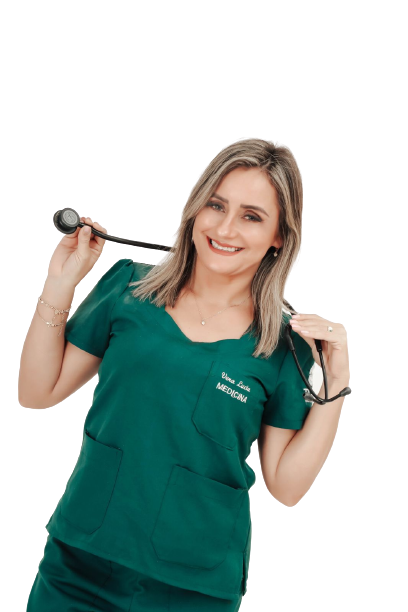
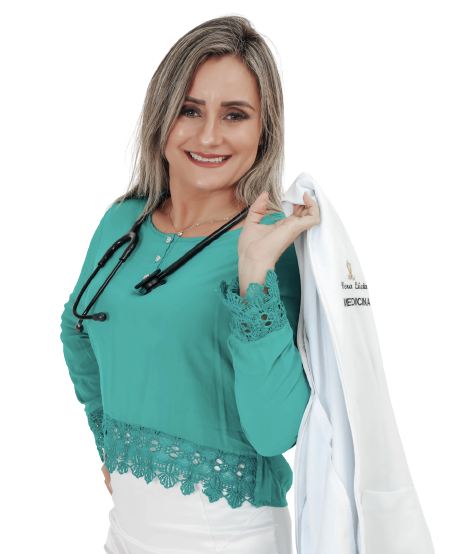
Changes

diff --git a/index.html b/index.html
@@ -37,8 +37,7 @@
           <div class="" id="">
             <div class="User_option">
               <form class="form-inline my-2  mb-3 mb-lg-0">
-                <input type="search" placeholder="Search">
-                <button class="btn   my-sm-0 nav_search-btn" type="submit"></button>
+                
               </form>
             </div>
 
@@ -88,20 +87,20 @@
                       </h5>
                     </div>
                     <h1>
-                      Vera Nutrição  <br>
+                      Dra. Vera Bezerra <br>
                       <span>
-                        chnage
+                        Change your Life!
                       </span>
                     </h1>
                     <p>
-                      Lorem ipsum dolor sit amet, consectetur adipiscing elit, sed do eiusmod tempor incididunt
+                      Pronto para uma transformação na saúde? A Dra. Vera Bezerra, uma nutricionista renomada, pode guiá-lo em direção aos seus objetivos de bem-estar. Seja perda de peso, aumento de energia ou melhor qualidade de vida, a expertise dela pode fazer a diferença. Entre em contato com a Dra. Vera Bezerra agora mesmo para uma vida mais saudável!
                     </p>
                     <div class="btn-box">
                       <a href="" class="btn-1">
-                        Read More
+                        Saiba mais
                       </a>
                       <a href="" class="btn-2">
-                        Contact Us
+                        Contate-nos
                       </a>
                     </div>
                   </div>
@@ -145,7 +144,7 @@
                 </div>
                 <div class="col-md-6">
                   <div class="img-box">
-                    <img src="images/slider-img.png" alt="">
+                    <img src="images/slider2-img.png" alt="" >
                   </div>
                 </div>
               </div>
@@ -437,13 +436,13 @@
           Our Dog Food
         </h2>
         <p>
-          It is a long established fact that a reader will be distracted by the readable content of a
+         extra
         </p>
       </div>
       <div class="food_container">
         <div class="box">
           <div class="img-box">
-            <img src="images/f1.png" alt="">
+            <img src="" alt="">
           </div>
           <div class="detail-box">
             <h6>
@@ -459,23 +458,15 @@
         </div>
         <div class="box">
           <div class="img-box">
-            <img src="images/f2.png" alt="">
+            <img src="" alt="">
           </div>
           <div class="detail-box">
-            <h6>
-              Medium
-            </h6>
-            <h3>
-              <span>$</span>200
-            </h3>
-            <a href="">
-              Buy Now
-            </a>
+             
           </div>
         </div>
         <div class="box">
           <div class="img-box">
-            <img src="images/f3.png" alt="">
+            <img src="" alt="">
           </div>
           <div class="detail-box">
             <h6>

diff --git a/css/style.css b/css/style.css
@@ -107,7 +107,7 @@ body {
 }
 
 .custom_nav-container.navbar-expand-lg .navbar-nav .nav-item.active .nav-link, .custom_nav-container.navbar-expand-lg .navbar-nav .nav-item:hover .nav-link {
-  color: #e7d619;
+  color: #FEC9CB;
 }
 
 a,
@@ -270,7 +270,7 @@ a:focus {
   top: 0;
   left: 0;
   background-color: black;
-  background-color: rgba(10, 32, 80, 0.95);
+  background-color: rgba(218, 160, 136, 0.95);
   overflow-x: hidden;
   -webkit-transition: 0.5s;
   transition: 0.5s;
@@ -333,7 +333,7 @@ a:focus {
 .slider_section .detail-box {
   margin: 45px 5% 0 5%;
   padding-bottom: 45px;
-  border-right: 2px solid #e7d619;
+  border-right: 2px solid #E30B5C;
 }
 
 .slider_section .detail-box h1 {
@@ -345,7 +345,7 @@ a:focus {
 }
 
 .slider_section .detail-box h1 span {
-  color: #e7d619;
+  color: #E30B5C;
 }
 
 .slider_section .detail-box .btn-box {
@@ -366,37 +366,38 @@ a:focus {
 .slider_section .detail-box .btn-box .btn-1 {
   display: inline-block;
   padding: 10px 0px;
-  background-color: #0a2050;
+  background-color: #FA8072;
   color: #ffffff;
   -webkit-transition: all 0.3s;
   transition: all 0.3s;
-  border: 1px solid #0a2050;
+  border: 1px solid #FA8072;
   border-radius: 0;
 }
 
 .slider_section .detail-box .btn-box .btn-1:hover {
   background-color: transparent;
-  color: #0a2050;
+  color: #FA8072;
 }
 
 .slider_section .detail-box .btn-box .btn-2 {
   display: inline-block;
   padding: 10px 0px;
-  background-color: #e7d619;
+  background-color: #E30B5C;
   color: #ffffff;
   -webkit-transition: all 0.3s;
   transition: all 0.3s;
-  border: 1px solid #e7d619;
+  border: 1px solid #E30B5C;
   border-radius: 0;
 }
 
 .slider_section .detail-box .btn-box .btn-2:hover {
   background-color: transparent;
-  color: #e7d619;
+  color: #E30B5C;
 }
 
 .slider_section .img-box img {
   max-width: 100%;
+  max-height: auto;
 }
 
 .slider_section #carouselExampleIndicators {
@@ -414,7 +415,7 @@ a:focus {
   height: 12px;
   opacity: 1;
   background: none;
-  border: 2px solid #e7d619;
+  border: 2px solid #E30B5C;
   color: #000000;
   position: relative;
   margin: 0 4px;
@@ -1011,7 +1012,7 @@ a:focus {
 }
 
 .info_section {
-  background-color: #0a2050;
+  background-color: #daa088;
   color: #ffffff;
   padding: 40px 0 75px 0;
   font-family: "Open Sans",
